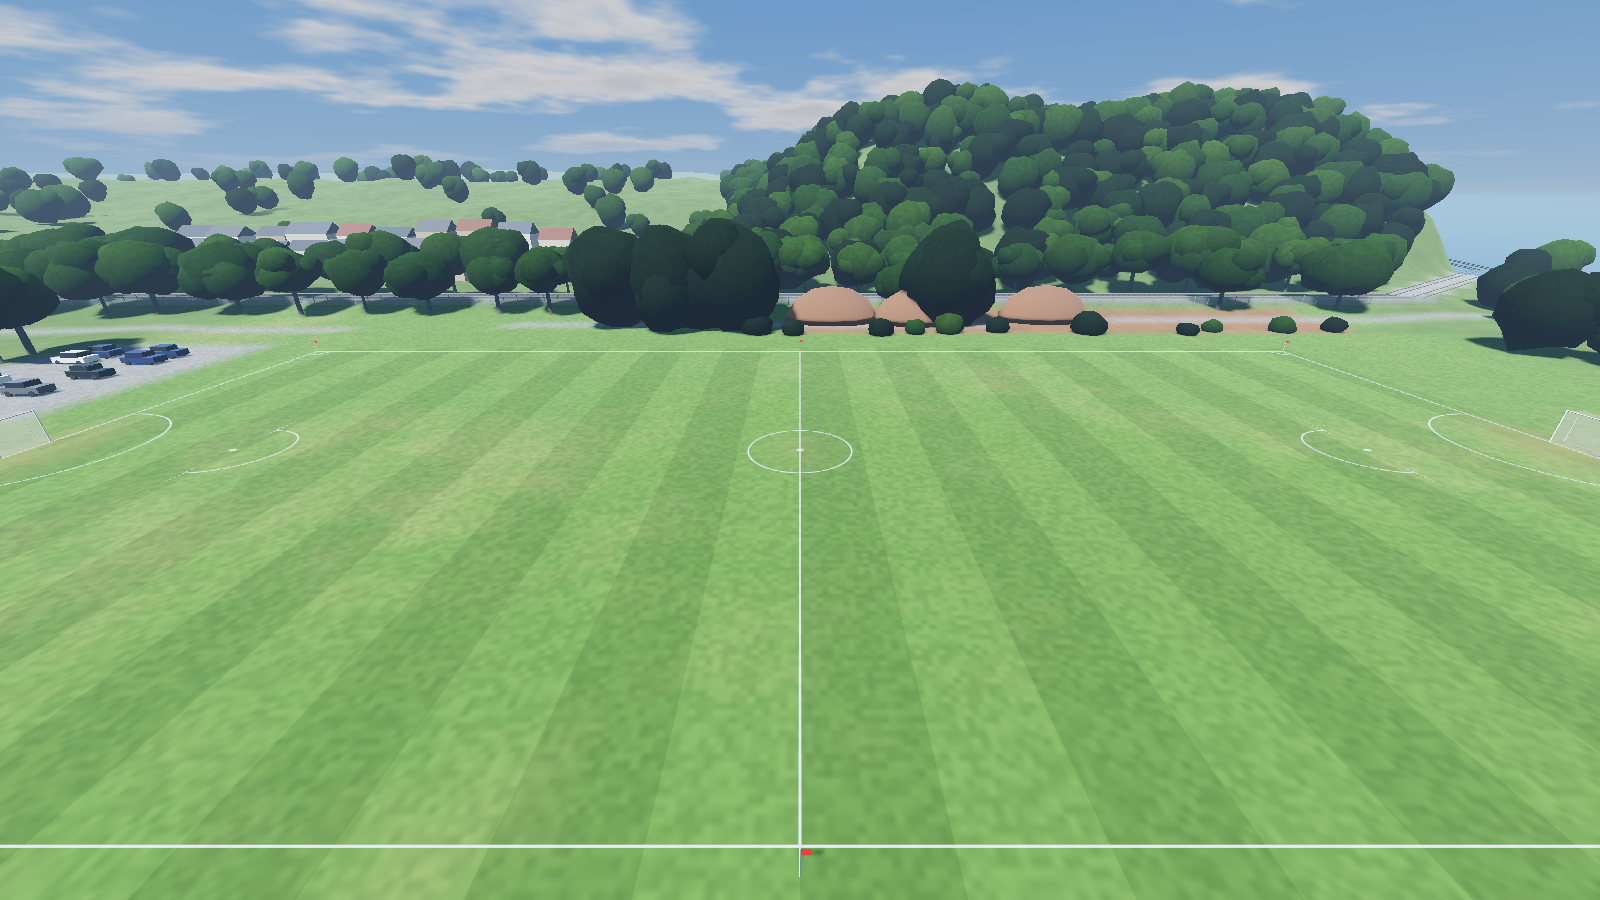
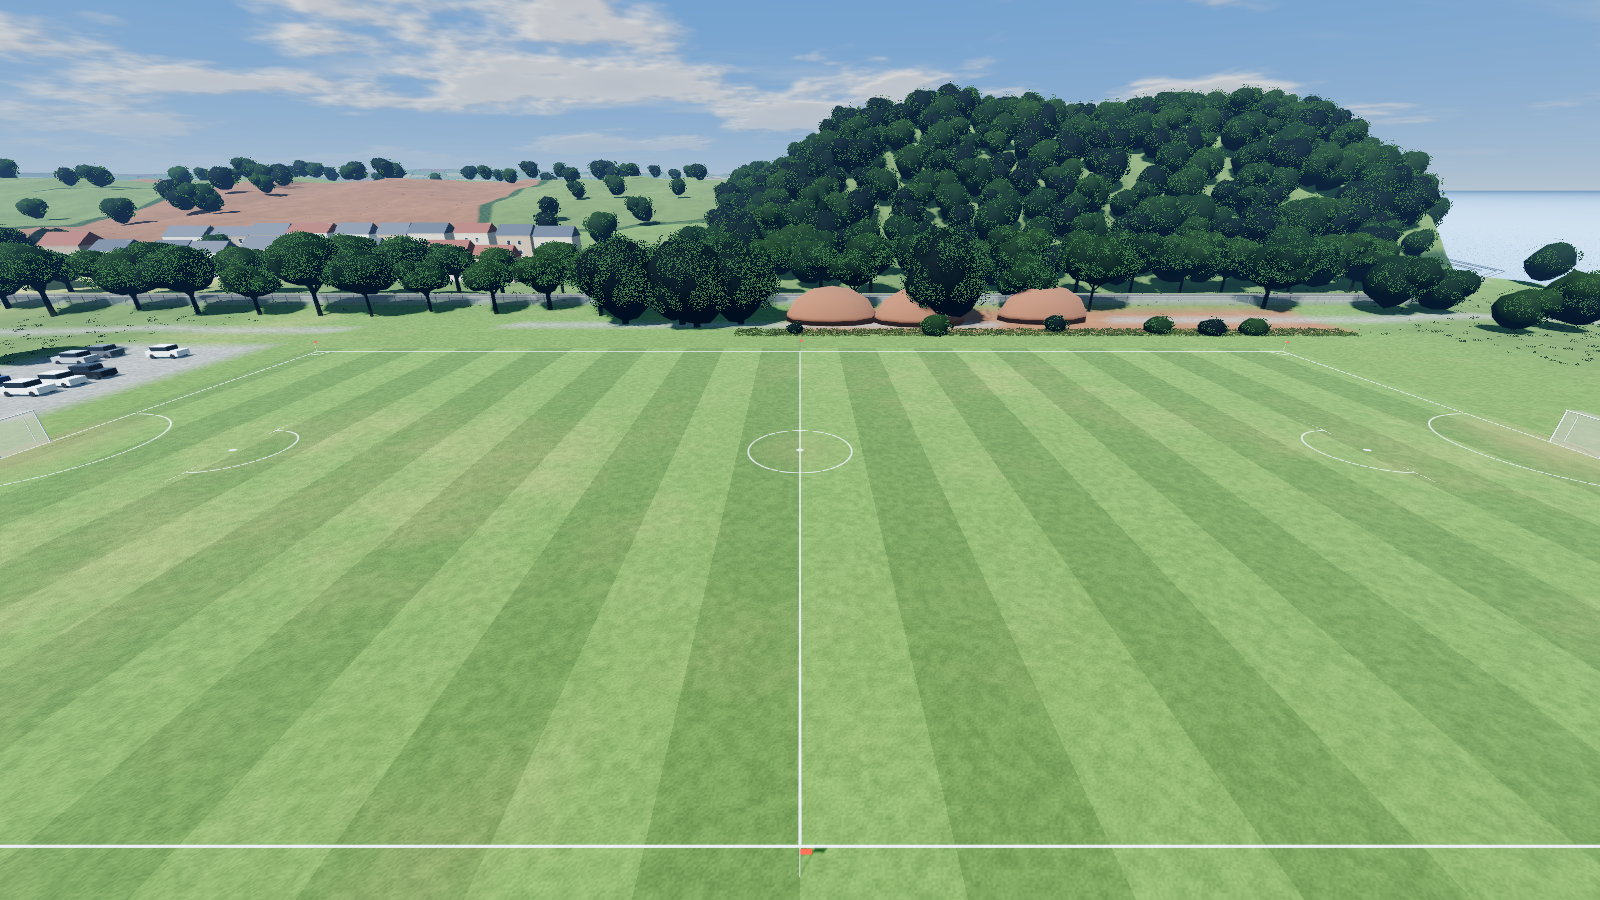
Finish the graphics pass and document Tighnabruaich
Bluer, lighter distance haze so far hills no longer wash out white; drop
alpha-edge smoothing that speckled leaves and grass without MSAA; keep
trees out of the Tighnabruaich west-end view; only enable SSAO, SSIL and
SSR under Forward+. New renders for all three grounds.

Claude-Session: https://claude.ai/code/session_01CpMB39MJ7LBnKyWwSPSX3E

diff --git a/docs/pitch.md b/docs/pitch.md
@@ -8,6 +8,7 @@ it for a match, and picking a home team moves the match to that team's ground.
 | --- | --- |
 | Aberdour | Alistair's three photos and a satellite view of the club |
 | Kingussie (The Dell) | A satellite view of the club |
+| Tighnabruaich (Kyles Athletic) | An aerial photo of the ground |
 
 ## The pitch
 
@@ -19,7 +20,14 @@ it for a match, and picking a home team moves the match to that team's ground.
 - Mowing stripes, worn goalmouths, placeholder hails (12 ft x 10 ft), corner
   and halfway flags, and a physics floor (StaticBody3D, layer 1).
 - Lighting presets: summer afternoon, summer evening, overcast. Custom sky
-  with clouds, haze and shadows.
+  with sun-lit cumulus and high wisps, blue distance haze, soft four-split
+  shadows, AgX tone mapping and glow.
+- Trees are trunks and limbs with leafy canopies (cut-out leaf cards that sway
+  in the wind); long grass grows in tufts at the pitch edges; the sea and the
+  Spey use a water shader with moving waves and sky reflection.
+- The game runs on the Forward+ renderer, which adds ambient occlusion,
+  indirect light and reflections; machines that can't run it fall back to
+  Compatibility automatically.
 
 ## The grounds
 
@@ -42,6 +50,13 @@ to the town, and Kingussie itself on the slope beyond. South side and east
 end: birch and alder along the River Spey, which curves round the ground,
 and the A9 beyond the bend. Behind the east hail: a tall ball-stop net. Hills
 all round, highest to the east (the Cairngorms).
+
+**Tighnabruaich, Kyles Athletic.** The pitch sits on the shore of the Kyles
+of Bute. North (far side): a grassy bank up to the village road with lamp
+posts, then the wooded hillside, with villas above the west end. South: the
+sea wall and a white rail, shingle, the Kyles with moored boats, and Bute
+across the water. East: the car park, the clubhouse, a fenced tennis court and
+a play area. West: a tall ball-stop net and a cottage by the shore.
 
 ## Using it
 

diff --git a/README.md b/README.md
@@ -1,7 +1,7 @@
 # Shinty (working title)
 
 A 3D shinty match game built in Godot 4.7. Pick Kingussie or Aberdour, pick
-their ground to play at, and play a full 12-a-side match against the computer.
+where to play (Aberdour, Kingussie or Tighnabruaich), and play a full 12-a-side match against the computer.
 
 ## Run it
 
@@ -58,7 +58,7 @@ entry to `teams` with an `id`, `name`, `short` and `colors`.
   angles, runs in behind, overlaps, coming short, marking and cover.
 - `scripts/match_view.gd`: builds and animates the 3D players, ball, hails and
   broadcast camera from the match state, using the models in `models/`.
-- `pitch/`: the grounds (Aberdour and Kingussie's The Dell) with their
+- `pitch/`: the grounds (Aberdour, Kingussie's The Dell and Tighnabruaich) with their
   scenery, sky and lighting; each ground's layout is in `pitch/venues/`. See
   `docs/pitch.md`. The match uses it in yards (`units_per_yard = 1`) with its
   own placeholder goals turned off, at the ground picked in the menu.
